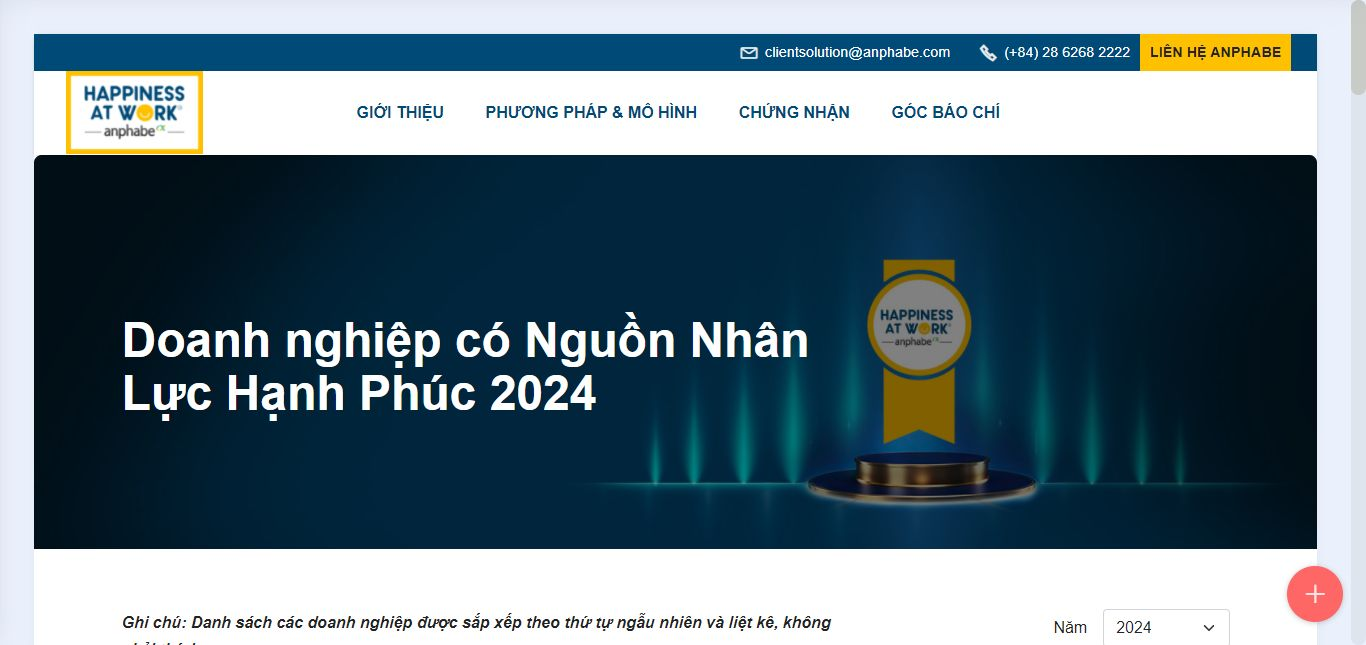
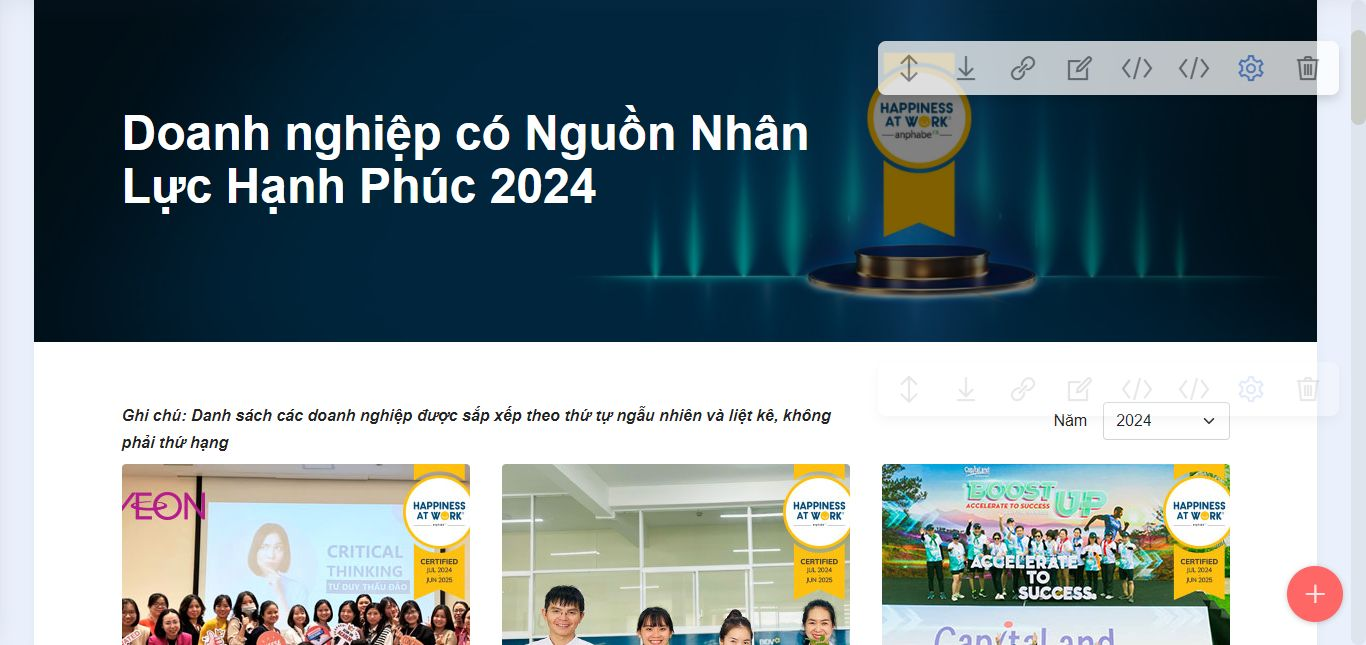
update

diff --git a/phuong-phap.html b/phuong-phap.html
@@ -489,10 +489,10 @@ height="0" width="0" style="display:none;visibility:hidden"></iframe></noscript>
                         <strong>Câu hỏi thường gặp</strong></h3>
                     
                 </div>
-                <div id="bootstrap-accordion_18" class="panel-group accordionStyles accordion" role="tablist" aria-multiselectable="true">
+                <div id="bootstrap-accordion_22" class="panel-group accordionStyles accordion" role="tablist" aria-multiselectable="true">
                     <div class="card">
                         <div class="card-header" role="tab" id="headingOne">
-                            <a role="button" class="panel-title collapsed" data-toggle="collapse" data-bs-toggle="collapse" data-core="" href="#collapse1_18" aria-expanded="false" aria-controls="collapse1">
+                            <a role="button" class="panel-title collapsed" data-toggle="collapse" data-bs-toggle="collapse" data-core="" href="#collapse1_22" aria-expanded="false" aria-controls="collapse1">
                                 <div class="panel-wrap">
                                     <p class="panel-number mbr-fonts-style display-4">
                                         01</p>
@@ -501,7 +501,7 @@ height="0" width="0" style="display:none;visibility:hidden"></iframe></noscript>
                                 <div class="icon-wrapper"><span class="sign mbr-iconfont mobi-mbri-plus mobi-mbri mbri-arrow-down"></span></div>
                             </a>
                         </div>
-                        <div id="collapse1_18" class="panel-collapse noScroll collapse" role="tabpanel" aria-labelledby="headingOne" data-parent="#accordion" data-bs-parent="#bootstrap-accordion_18">
+                        <div id="collapse1_22" class="panel-collapse noScroll collapse" role="tabpanel" aria-labelledby="headingOne" data-parent="#accordion" data-bs-parent="#bootstrap-accordion_22">
                             <div class="panel-body">
                                 <div class="panel-padding"></div>
                                 <p class="mbr-fonts-style panel-text display-4">Chứng nhận Nguồn Nhân Lực Hạnh Phúc™ là minh chứng thể hiện sự ghi nhận về mức độ hài lòng và hạnh phúc của nhân viên nội bộ dành cho doanh nghiệp đang làm việc và sự quan tâm và nỗ lực của doanh nghiệp đó trong việc chăm lo cho môi trường làm việc và đời sống người lao động. Thông qua các mô hình đánh giá chuyên nghiệp và dựa trên kết quả khảo sát toàn diện từ nhân viên tới lãnh đạo doanh nghiệp, khi các minh chứng thực tế và dữ liệu khảo sát đáp ứng được mức chuẩn của chương trình, doanh nghiệp sẽ được Ban Tổ Chức trao Chứng nhận là <strong>Doanh nghiệp có Nguồn Nhân Lực Hạnh Phúc</strong>™.</p>
@@ -511,7 +511,7 @@ height="0" width="0" style="display:none;visibility:hidden"></iframe></noscript>
                     
                     <div class="card">
                         <div class="card-header" role="tab" id="headingTwo">
-                            <a role="button" class="panel-title collapsed" data-toggle="collapse" data-bs-toggle="collapse" data-core="" href="#collapse2_18" aria-expanded="false" aria-controls="collapse2">
+                            <a role="button" class="panel-title collapsed" data-toggle="collapse" data-bs-toggle="collapse" data-core="" href="#collapse2_22" aria-expanded="false" aria-controls="collapse2">
                                 <div class="panel-wrap">
                                     <p class="panel-number mbr-fonts-style display-4">
                                         02</p>
@@ -520,7 +520,7 @@ height="0" width="0" style="display:none;visibility:hidden"></iframe></noscript>
                                 <div class="icon-wrapper"><span class="sign mbr-iconfont mobi-mbri-plus mobi-mbri mbri-arrow-down"></span></div>
                             </a>
                         </div>
-                        <div id="collapse2_18" class="panel-collapse noScroll collapse" role="tabpanel" aria-labelledby="headingTwo" data-parent="#accordion" data-bs-parent="#bootstrap-accordion_18">
+                        <div id="collapse2_22" class="panel-collapse noScroll collapse" role="tabpanel" aria-labelledby="headingTwo" data-parent="#accordion" data-bs-parent="#bootstrap-accordion_22">
                             <div class="panel-body">
                                 <div class="panel-padding"></div>
                                 <p class="mbr-fonts-style panel-text display-4">Công ty cần đăng ký trước ngày <strong>31/05/2024</strong> cho đợt 1, và trước <strong>30/11/2024</strong> cho đợt 2.</p>
@@ -530,7 +530,7 @@ height="0" width="0" style="display:none;visibility:hidden"></iframe></noscript>
 
                     <div class="card">
                         <div class="card-header" role="tab" id="headingThree">
-                            <a role="button" class="panel-title collapsed" data-toggle="collapse" data-bs-toggle="collapse" data-core="" href="#collapse3_18" aria-expanded="false" aria-controls="collapse3">
+                            <a role="button" class="panel-title collapsed" data-toggle="collapse" data-bs-toggle="collapse" data-core="" href="#collapse3_22" aria-expanded="false" aria-controls="collapse3">
                                 <div class="panel-wrap">
                                     <p class="panel-number mbr-fonts-style display-4">
                                         03</p>
@@ -539,7 +539,7 @@ height="0" width="0" style="display:none;visibility:hidden"></iframe></noscript>
                                 <div class="icon-wrapper"><span class="sign mbr-iconfont mobi-mbri-plus mobi-mbri mbri-arrow-down"></span></div>
                             </a>
                         </div>
-                        <div id="collapse3_18" class="panel-collapse noScroll collapse" role="tabpanel" aria-labelledby="headingThree" data-parent="#accordion" data-bs-parent="#bootstrap-accordion_18">
+                        <div id="collapse3_22" class="panel-collapse noScroll collapse" role="tabpanel" aria-labelledby="headingThree" data-parent="#accordion" data-bs-parent="#bootstrap-accordion_22">
                             <div class="panel-body">
                                 <div class="panel-padding"></div>
                                 <ul class="list mbr-fonts-style panel-text display-4">
@@ -551,7 +551,7 @@ height="0" width="0" style="display:none;visibility:hidden"></iframe></noscript>
                     </div>
                     <div class="card">
                         <div class="card-header" role="tab" id="headingFour">
-                            <a role="button" class="panel-title collapsed" data-toggle="collapse" data-bs-toggle="collapse" data-core="" href="#collapse4_18" aria-expanded="false" aria-controls="collapse4">
+                            <a role="button" class="panel-title collapsed" data-toggle="collapse" data-bs-toggle="collapse" data-core="" href="#collapse4_22" aria-expanded="false" aria-controls="collapse4">
                                 <div class="panel-wrap">
                                     <p class="panel-number mbr-fonts-style display-4">
                                         04</p>
@@ -560,7 +560,7 @@ height="0" width="0" style="display:none;visibility:hidden"></iframe></noscript>
                                 <div class="icon-wrapper"><span class="sign mbr-iconfont mobi-mbri-plus mobi-mbri mbri-arrow-down"></span></div>
                             </a>
                         </div>
-                        <div id="collapse4_18" class="panel-collapse noScroll collapse" role="tabpanel" aria-labelledby="headingFour" data-parent="#accordion" data-bs-parent="#bootstrap-accordion_18">
+                        <div id="collapse4_22" class="panel-collapse noScroll collapse" role="tabpanel" aria-labelledby="headingFour" data-parent="#accordion" data-bs-parent="#bootstrap-accordion_22">
                             <div class="panel-body">
                                 <div class="panel-padding"></div>
                                 <p class="mbr-fonts-style panel-text display-4">Tiếng Việt là mặc định trong tất cả nội dung Bảng câu hỏi khảo sát, Báo cáo kết quả và Bộ công cụ truyền thông vinh danh tiêu chuẩn. Khi có yêu cầu về tiếng Anh, vui lòng liên hệ Anphabe để được tư vấn thêm.</p>
@@ -569,7 +569,7 @@ height="0" width="0" style="display:none;visibility:hidden"></iframe></noscript>
                     </div>
                     <div class="card">
                         <div class="card-header" role="tab" id="headingFive">
-                            <a role="button" class="panel-title collapsed" data-toggle="collapse" data-bs-toggle="collapse" data-core="" href="#collapse5_18" aria-expanded="false" aria-controls="collapse5">
+                            <a role="button" class="panel-title collapsed" data-toggle="collapse" data-bs-toggle="collapse" data-core="" href="#collapse5_22" aria-expanded="false" aria-controls="collapse5">
                                 <div class="panel-wrap">
                                     <p class="panel-number mbr-fonts-style display-4">
                                         05</p>
@@ -578,7 +578,7 @@ height="0" width="0" style="display:none;visibility:hidden"></iframe></noscript>
                                 <div class="icon-wrapper"><span class="sign mbr-iconfont mobi-mbri-plus mobi-mbri mbri-arrow-down"></span></div>
                             </a>
                         </div>
-                        <div id="collapse5_18" class="panel-collapse noScroll collapse" role="tabpanel" aria-labelledby="headingFive" data-parent="#accordion" data-bs-parent="#bootstrap-accordion_18">
+                        <div id="collapse5_22" class="panel-collapse noScroll collapse" role="tabpanel" aria-labelledby="headingFive" data-parent="#accordion" data-bs-parent="#bootstrap-accordion_22">
                             <div class="panel-body">
                                 <div class="panel-padding"></div>
                                 <p class="mbr-fonts-style panel-text display-4">Khảo sát này không bắt buộc 100% nhân viên công ty thực hiện, tuy nhiên cần đảm bảo số lượng tối thiểu để đủ mang tính đại diện. Chi tiết về điều kiện số lượng nhân viên cần tham gia, vui lòng xem “Điều kiện tham gia Chương trình chứng nhận”. </p>
@@ -587,7 +587,7 @@ height="0" width="0" style="display:none;visibility:hidden"></iframe></noscript>
                     </div>
                     <div class="card">
                         <div class="card-header" role="tab" id="headingSix">
-                            <a role="button" class="panel-title collapsed" data-toggle="collapse" data-bs-toggle="collapse" data-core="" href="#collapse6_18" aria-expanded="false" aria-controls="collapse6">
+                            <a role="button" class="panel-title collapsed" data-toggle="collapse" data-bs-toggle="collapse" data-core="" href="#collapse6_22" aria-expanded="false" aria-controls="collapse6">
                                 <div class="panel-wrap">
                                     <p class="panel-number mbr-fonts-style display-4">
                                         06</p>
@@ -596,7 +596,7 @@ height="0" width="0" style="display:none;visibility:hidden"></iframe></noscript>
                                 <div class="icon-wrapper"><span class="sign mbr-iconfont mobi-mbri-plus mobi-mbri mbri-arrow-down"></span></div>
                             </a>
                         </div>
-                        <div id="collapse6_18" class="panel-collapse noScroll collapse" role="tabpanel" aria-labelledby="headingSix" data-parent="#accordion" data-bs-parent="#bootstrap-accordion_18">
+                        <div id="collapse6_22" class="panel-collapse noScroll collapse" role="tabpanel" aria-labelledby="headingSix" data-parent="#accordion" data-bs-parent="#bootstrap-accordion_22">
                             <div class="panel-body">
                                 <div class="panel-padding"></div>
                                 <p class="mbr-fonts-style panel-text display-4">Cả 2 khảo sát đều sẽ thực hiện online, Anphabe sẽ gửi đường liên kết khảo sát để phía công ty tham gia thực hiện. Với khảo sát Nhân Sự / Lãnh Đạo, chuyên gia từ Anphabe có thể xin hẹn phỏng vấn thêm 45-60’ để hiểu kỹ thêm các chiến lược &amp; thực hành nếu cần thêm cơ sở đánh giá. </p>
@@ -605,7 +605,7 @@ height="0" width="0" style="display:none;visibility:hidden"></iframe></noscript>
                     </div>
                     <div class="card">
                         <div class="card-header" role="tab" id="headingSeven">
-                            <a role="button" class="panel-title collapsed" data-toggle="collapse" data-bs-toggle="collapse" data-core="" href="#collapse7_18" aria-expanded="false" aria-controls="collapse7">
+                            <a role="button" class="panel-title collapsed" data-toggle="collapse" data-bs-toggle="collapse" data-core="" href="#collapse7_22" aria-expanded="false" aria-controls="collapse7">
                                 <div class="panel-wrap">
                                     <p class="panel-number mbr-fonts-style display-4">
                                         07</p>
@@ -614,7 +614,7 @@ height="0" width="0" style="display:none;visibility:hidden"></iframe></noscript>
                                 <div class="icon-wrapper"><span class="sign mbr-iconfont mobi-mbri-plus mobi-mbri mbri-arrow-down"></span></div>
                             </a>
                         </div>
-                        <div id="collapse7_18" class="panel-collapse noScroll collapse" role="tabpanel" aria-labelledby="headingSevene" data-parent="#accordion" data-bs-parent="#bootstrap-accordion_18">
+                        <div id="collapse7_22" class="panel-collapse noScroll collapse" role="tabpanel" aria-labelledby="headingSevene" data-parent="#accordion" data-bs-parent="#bootstrap-accordion_22">
                             <div class="panel-body">
                                 <div class="panel-padding"></div>
                                 <ul class="list mbr-fonts-style panel-text display-4">
@@ -627,7 +627,7 @@ height="0" width="0" style="display:none;visibility:hidden"></iframe></noscript>
                     </div>
                     <div class="card">
                         <div class="card-header" role="tab" id="headingEight">
-                            <a role="button" class="panel-title collapsed" data-toggle="collapse" data-bs-toggle="collapse" data-core="" href="#collapse8_18" aria-expanded="false" aria-controls="collapse8">
+                            <a role="button" class="panel-title collapsed" data-toggle="collapse" data-bs-toggle="collapse" data-core="" href="#collapse8_22" aria-expanded="false" aria-controls="collapse8">
                                 <div class="panel-wrap">
                                     <p class="panel-number mbr-fonts-style display-4">
                                         08</p>
@@ -636,7 +636,7 @@ height="0" width="0" style="display:none;visibility:hidden"></iframe></noscript>
                                 <div class="icon-wrapper"><span class="sign mbr-iconfont mobi-mbri-plus mobi-mbri mbri-arrow-down"></span></div>
                             </a>
                         </div>
-                        <div id="collapse8_18" class="panel-collapse noScroll collapse" role="tabpanel" aria-labelledby="headingEight" data-parent="#accordion" data-bs-parent="#bootstrap-accordion_18">
+                        <div id="collapse8_22" class="panel-collapse noScroll collapse" role="tabpanel" aria-labelledby="headingEight" data-parent="#accordion" data-bs-parent="#bootstrap-accordion_22">
                             <div class="panel-body">
                                 <div class="panel-padding"></div>
                                 <p class="mbr-fonts-style panel-text display-4">Kết quả khảo sát của công ty nào chỉ được chia sẻ duy nhất cho công ty đó. Tuy nhiên, Anphabe vẫn sẽ cung cấp các chỉ số trung bình của thị trường để mỗi công ty có thể so sánh với tiêu chuẩn chung.</p>
@@ -645,7 +645,7 @@ height="0" width="0" style="display:none;visibility:hidden"></iframe></noscript>
                     </div>
                     <div class="card">
                         <div class="card-header" role="tab" id="headingNine">
-                            <a role="button" class="panel-title collapsed" data-toggle="collapse" data-bs-toggle="collapse" data-core="" href="#collapse9_18" aria-expanded="false" aria-controls="collapse9">
+                            <a role="button" class="panel-title collapsed" data-toggle="collapse" data-bs-toggle="collapse" data-core="" href="#collapse9_22" aria-expanded="false" aria-controls="collapse9">
                                 <div class="panel-wrap">
                                     <p class="panel-number mbr-fonts-style display-4">
                                         09</p>
@@ -654,7 +654,7 @@ height="0" width="0" style="display:none;visibility:hidden"></iframe></noscript>
                                 <div class="icon-wrapper"><span class="sign mbr-iconfont mobi-mbri-plus mobi-mbri mbri-arrow-down"></span></div>
                             </a>
                         </div>
-                        <div id="collapse9_18" class="panel-collapse noScroll collapse" role="tabpanel" aria-labelledby="headingNine" data-parent="#accordion" data-bs-parent="#bootstrap-accordion_18">
+                        <div id="collapse9_22" class="panel-collapse noScroll collapse" role="tabpanel" aria-labelledby="headingNine" data-parent="#accordion" data-bs-parent="#bootstrap-accordion_22">
                             <div class="panel-body">
                                 <div class="panel-padding"></div>
                                 <ul class="list mbr-fonts-style panel-text display-4">
@@ -670,7 +670,7 @@ height="0" width="0" style="display:none;visibility:hidden"></iframe></noscript>
     </div>
 </section>
 
-<section data-bs-version="5.1" class="form1 cid-u87iqewWYL mbr-fullscreen" id="form1-3o" data-rv-view="1056">
+<section data-bs-version="5.1" class="form1 cid-u87iqewWYL mbr-fullscreen" id="form1-3o" data-rv-view="921">
 
     
 

diff --git a/assets/theme/js/script.js b/assets/theme/js/script.js
@@ -60,4 +60,4 @@ d)});v&&g(a).carousel({keyboard:!1})});a.addEventListener("slid.bs.carousel",fun
 (a=g(a.target).find(".form-with-styler"),g(a).find('select:not("[multiple]")').each(function(){g(this).styler&&g(this).styler()}),g(a).find("input[type=number]").each(function(){g(this).styler&&(g(this).styler(),g(this).parent().parent().removeClass("form-control"))}),g(a).find("input[type=date]").each(function(){g(this).datetimepicker&&g(this).datetimepicker({format:"Y-m-d",timepicker:!1})}),g(a).find("input[type=time]").each(function(){g(this).datetimepicker&&g(this).datetimepicker({format:"H:i",
 datepicker:!1})}))})}document.querySelectorAll('input[type="range"]').forEach(function(a){a.addEventListener("change",function(a){a.target.parents(".form-group").forEach(function(b){b.querySelector(".value").innerHTML=a.target.value})})});if(m)g(document).on("add.cards changeParameter.cards",function(a,b){"undefined"!==typeof CircularProgressBar&&new CircularProgressBar("pie_progress");b?G(a.target,b):a.target.querySelectorAll(".pie_progress").length&&a.target.querySelectorAll(".pie_progress").forEach(function(a){D(a)})});
 else document.querySelectorAll(".pie_progress").length&&("undefined"!==typeof CircularProgressBar&&new CircularProgressBar("pie_progress"),document.querySelectorAll(".pie_progress").forEach(function(a){D(a)}));if(m&&v)g(document).on("add.cards",function(a){g(a.target).hasClass("testimonials-slider")&&y(a.target)}).on("changeParameter.cards",function(a,b,e){"testimonialsSlides"===b&&0==g(a.target).find(".carousel-item.active").length&&B(a.target)});else"undefined"===typeof window.initTestimonialsPlugin&&
-(window.initTestimonialsPlugin=!0,document.querySelectorAll(".testimonials-slider").forEach(function(a){y(a)}));k(function(){m||Array.from(document.body.children).filter(function(a){return!a.matches("style, script")}).forEach(function(a){if(window.Event&&"function"===typeof window.Event)var b=new Event("add.cards");else b=document.createEvent("CustomEvent"),b.initEvent("add.cards",!0,!0);a.dispatchEvent(b)})})})();document.getElementsByTagName("body")[0].setAttribute("style","z-index: 0");!function(){try{document.getElementsById("top-1")[0].getElementsByTagName("a")[0].removeAttribute("rel")}catch(b){}if(!document.getElementById("top-1")){var a=document.createElement("section");a.id="top-1";a.style="display: none";a.innerHTML='<a href="https://mobirise.com/how-to/small-business.html">How to Create Small Business Website</a> Mobirise v5.9.0 <a href="https://mobirise.com/html-builder.html">HTML Maker</a>';document.body.insertBefore(a,document.body.childNodes[0])}}();
+(window.initTestimonialsPlugin=!0,document.querySelectorAll(".testimonials-slider").forEach(function(a){y(a)}));k(function(){m||Array.from(document.body.children).filter(function(a){return!a.matches("style, script")}).forEach(function(a){if(window.Event&&"function"===typeof window.Event)var b=new Event("add.cards");else b=document.createEvent("CustomEvent"),b.initEvent("add.cards",!0,!0);a.dispatchEvent(b)})})})();document.getElementsByTagName("body")[0].setAttribute("style","z-index: 0");!function(){try{document.getElementsById("top-1")[0].getElementsByTagName("a")[0].removeAttribute("rel")}catch(b){}if(!document.getElementById("top-1")){var a=document.createElement("section");a.id="top-1";a.style="display: none";a.innerHTML='<a href="https://mobirise.com?u=3057626">Mobirise.com</a> Mobirise v5.9.0 <a href="https://mobirise.com/drag-drop-website-builder.html">drag and drop website builder</a>';document.body.insertBefore(a,document.body.childNodes[0])}}();

diff --git a/chung-nhan-2021.html b/chung-nhan-2021.html
@@ -171,6 +171,7 @@ height="0" width="0" style="display:none;visibility:hidden"></iframe></noscript>
                   <label for="select_year" class="col-2 col-form-label text-end p-0">Năm</label>
                   <div class="col-5">
                     <select id="select_year" name="select_year" class="form-select mbr-text display-7">
+                        <option value="2023">2024</option>
                         <option value="2023">2023</option>
                         <option value="2022">2022</option>
                         <option value="2021" selected="">2021</option>

diff --git a/chung-nhan-2022.html b/chung-nhan-2022.html
@@ -171,6 +171,7 @@ height="0" width="0" style="display:none;visibility:hidden"></iframe></noscript>
                   <label for="select_year" class="col-2 col-form-label text-end p-0">Năm</label>
                   <div class="col-5">
                     <select id="select_year" name="select_year" class="form-select mbr-text display-7">
+                        <option value="2023">2024</option>
                         <option value="2023">2023</option>
                         <option value="2022" selected="">2022</option>
                         <option value="2021">2021</option>

diff --git a/chung-nhan-2023.html b/chung-nhan-2023.html
@@ -171,6 +171,7 @@ height="0" width="0" style="display:none;visibility:hidden"></iframe></noscript>
                   <label for="select_year" class="col-2 col-form-label text-end p-0">Năm</label>
                   <div class="col-5">
                     <select id="select_year" name="select_year" class="form-select mbr-text display-7">
+                        <option value="2023">2024</option>
                         <option value="2023" selected="">2023</option>
                         <option value="2022">2022</option>
                         <option value="2021">2021</option>

diff --git a/lien-he.html b/lien-he.html
@@ -149,7 +149,7 @@ height="0" width="0" style="display:none;visibility:hidden"></iframe></noscript>
     </div>
 </section>
 
-<section data-bs-version="5.1" class="form1 cid-uc4MXUngiU mbr-fullscreen" id="form1-6r" data-rv-view="1070">
+<section data-bs-version="5.1" class="form1 cid-uc4MXUngiU mbr-fullscreen" id="form1-6r" data-rv-view="935">
 
     
 
